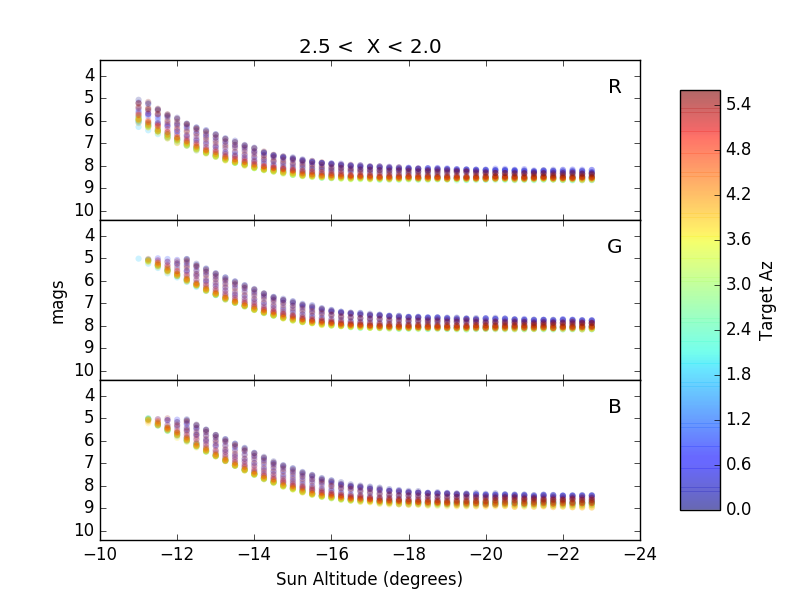
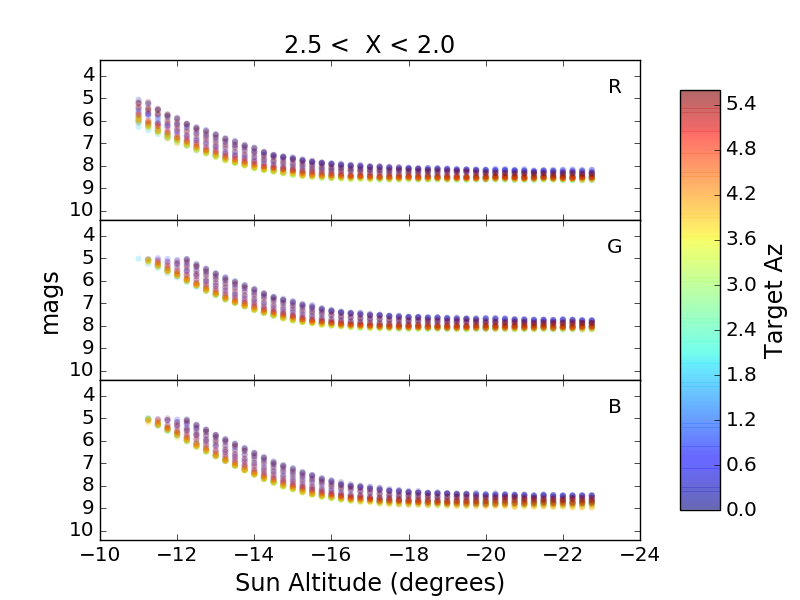
updating plots

diff --git a/examples/validate.py b/examples/validate.py
@@ -1,8 +1,7 @@
 import numpy as np
 import lsst.sims.skybrightness as sb
 from scipy.stats import binned_statistic_2d
-from lsst.sims.selfcal.analysis import healplots
-from lsst.sims.utils import _altAzPaFromRaDec, _raDecFromAltAz, haversine
+from lsst.sims.utils import _altAzPaFromRaDec, _raDecFromAltAz, haversine, healbin
 from lsst.sims.maf.utils.telescopeInfo import TelescopeInfo
 import healpy as hp
 import os
@@ -12,6 +11,12 @@ import matplotlib.pylab as plt
 import ephem
 from lsst.sims.skybrightness.utils import mjd2djd
 import numpy.ma as ma
+
+
+plt.rcParams.update({'axes.labelsize': 'x-large'})
+plt.rcParams.update({'axes.titlesize': 'x-large'})
+plt.rcParams.update({'xtick.labelsize': 'large', 'ytick.labelsize': 'large'})
+
 
 def robustRMS(data):
     iqr = np.percentile(data,75)-np.percentile(data,25)
@@ -124,7 +129,7 @@ for filterName in filters:
                 skydata = skydata[np.where((airmass < amMax) & (airmass >= 1.))]
                 alt,az,pa =  _altAzPaFromRaDec(np.radians(skydata['ra']), np.radians(skydata['dec']),
                                                telescope.lon, telescope.lat, mjd)
-                skyhp = healplots.healbin(az,alt, skydata['sky'], nside=nside)
+                skyhp = healbin(az,alt, skydata['sky'], nside=nside)
                 skyhp[np.isnan(skyhp)] = hp.UNSEEN
 
                 good = np.where(skyhp != hp.UNSEEN)
@@ -202,6 +207,8 @@ for filterName in filters:
                             extend='both', extendrect=True, format=None)
     cb.set_label(r'Median model-sky (mags/sq$^{\prime\prime}$)')
     cb.solids.set_edgecolor("face")
+
+    import pdb ; pdb.set_trace()
 
     fig.savefig('Plots/medianResidMap_%s.pdf' % filterName)
     plt.close(fig)
@@ -471,7 +478,7 @@ for filterName in filters:
         skydata = skydata[np.where((airmass < amMax) & (airmass >= 1.))]
         alt,az,pa =  _altAzPaFromRaDec(np.radians(skydata['ra']), np.radians(skydata['dec']),
                                        telescope.lon, telescope.lat, mjd)
-        skyhp = healplots.healbin(az,alt, skydata['sky'], nside=nside)
+        skyhp = healbin(az,alt, skydata['sky'], nside=nside)
         skyhp[np.isnan(skyhp)] = hp.UNSEEN
 
         good = np.where(skyhp != hp.UNSEEN)

diff --git a/doc/Plots/dm5.py b/doc/Plots/dm5.py
@@ -4,11 +4,14 @@ import os
 import numpy as np
 import matplotlib.pylab as plt
 import healpy as hp
-from lsst.sims.selfcal.analysis import healplots
+# from lsst.sims.selfcal.analysis import healplots
 from lsst.sims.skybrightness.utils import robustRMS, ut2Mjd, mjd2ut
 from lsst.sims.utils import _altAzPaFromRaDec, haversine, calcLmstLast, _raDecFromAltAz, ObservationMetaData, Site
 from scipy.interpolate import griddata
 
+plt.rcParams.update({'axes.labelsize': 'x-large'})
+plt.rcParams.update({'axes.titlesize': 'x-large'})
+plt.rcParams.update({'xtick.labelsize': 'large', 'ytick.labelsize': 'large'})
 
 # Let's recreate the delta m_5 plot from figure 3 in:
 # http://xxx.lanl.gov/pdf/1510.07574.pdf
@@ -32,7 +35,7 @@ angDist2Moon = np.degrees(haversine(az,alt, sm.moonAz,sm.moonAlt))
 ang2 = np.degrees(haversine(ra,dec, moonRA,moonDec))
 alt = np.degrees(alt)
 
-mags = -0.5*(mag[:,0].min()-mag[:,0])
+mags = -0.5*(np.nanmin(mag['u'])-mag['u'])
 
 
 #extent = (0,130, 0,90)

diff --git a/examples/fitTwiSlopesSimul.py b/examples/fitTwiSlopesSimul.py
@@ -8,6 +8,11 @@ import os
 import lsst.sims.photUtils.Bandpass as Bandpass
 from matplotlib.patches import Rectangle
 
+plt.rcParams.update({'axes.labelsize': 'x-large'})
+plt.rcParams.update({'axes.titlesize': 'x-large'})
+plt.rcParams.update({'xtick.labelsize': 'large', 'ytick.labelsize': 'large'})
+
+
 def lineCurve(xdata, x0,x1):
     mag = x0*xdata+x1
     return mag
@@ -261,7 +266,7 @@ for filterName in filters:
         ax.set_xlabel('Sun Altitude (degrees)')
         
         altBPlot.subplots_adjust(right=0.8)
-        cbar_ax = altBPlot.add_axes([0.85, 0.15, 0.05, 0.7])
+        cbar_ax = altBPlot.add_axes([0.81, 0.15, 0.05, 0.7])
         cb = altBPlot.colorbar(s, cax=cbar_ax)
         #cb = altBPlot.colorbar(s)
         cb.solids.set_edgecolor("face")

diff --git a/examples/twiPlotsForDoc.py b/examples/twiPlotsForDoc.py
@@ -3,6 +3,10 @@ import healpy as hp
 import matplotlib.pylab as plt
 import matplotlib
 
+plt.rcParams.update({'axes.labelsize': 'x-large'})
+plt.rcParams.update({'axes.titlesize': 'x-large'})
+plt.rcParams.update({'xtick.labelsize': 'large', 'ytick.labelsize': 'large'})
+
 # Just make a few example plots for the document
 filterName = 'R'
 twi = np.load('TwilightMaps/twiMaps_'+filterName+'.npz')

diff --git a/doc/Plots/exampleSpec.py b/doc/Plots/exampleSpec.py
@@ -5,6 +5,8 @@ import matplotlib.pylab as plt
 
 plt.rcParams.update({'axes.labelsize': 'x-large'})
 plt.rcParams.update({'axes.titlesize': 'x-large'})
+plt.rcParams.update({'xtick.labelsize': 'large', 'ytick.labelsize': 'large'})
+
 
 # Load up the spectra and plot some examples of each component
 
